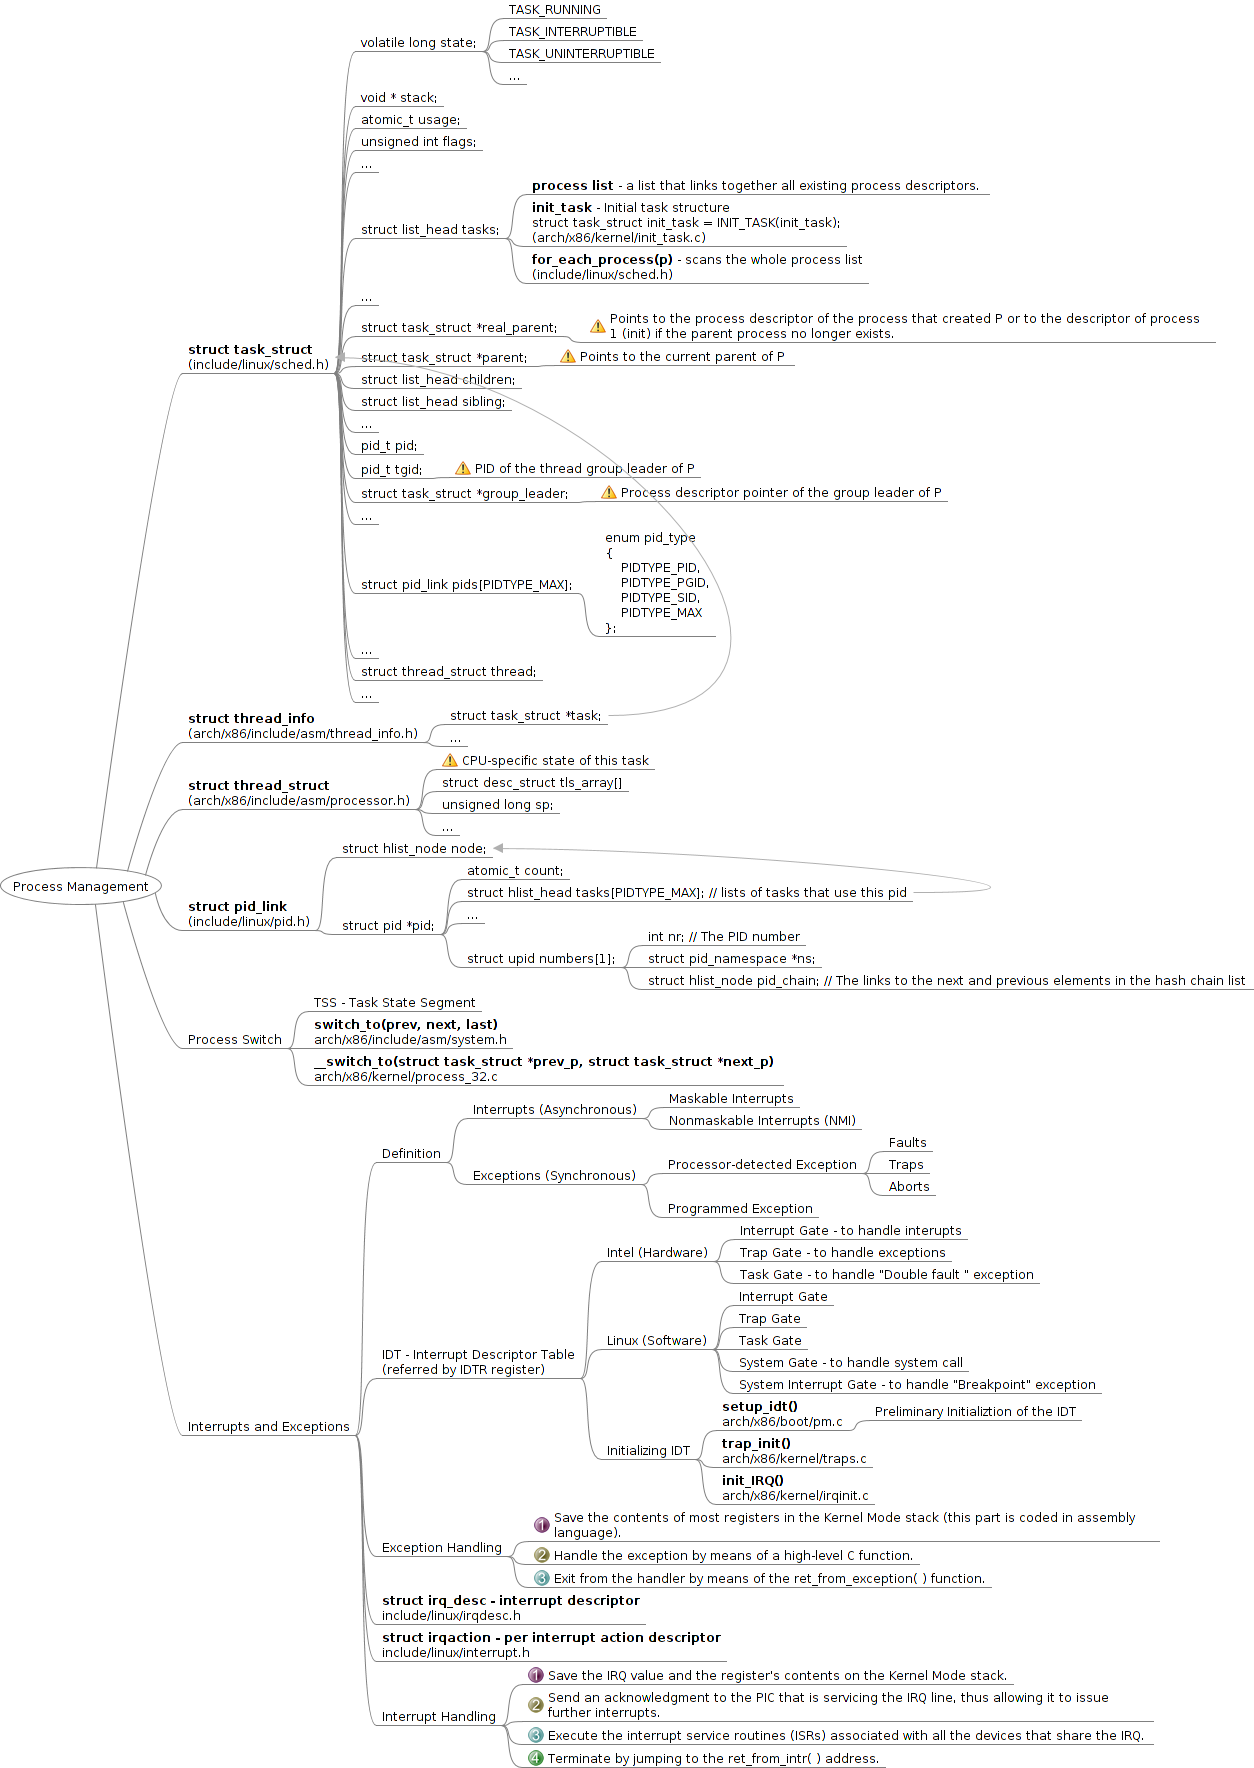
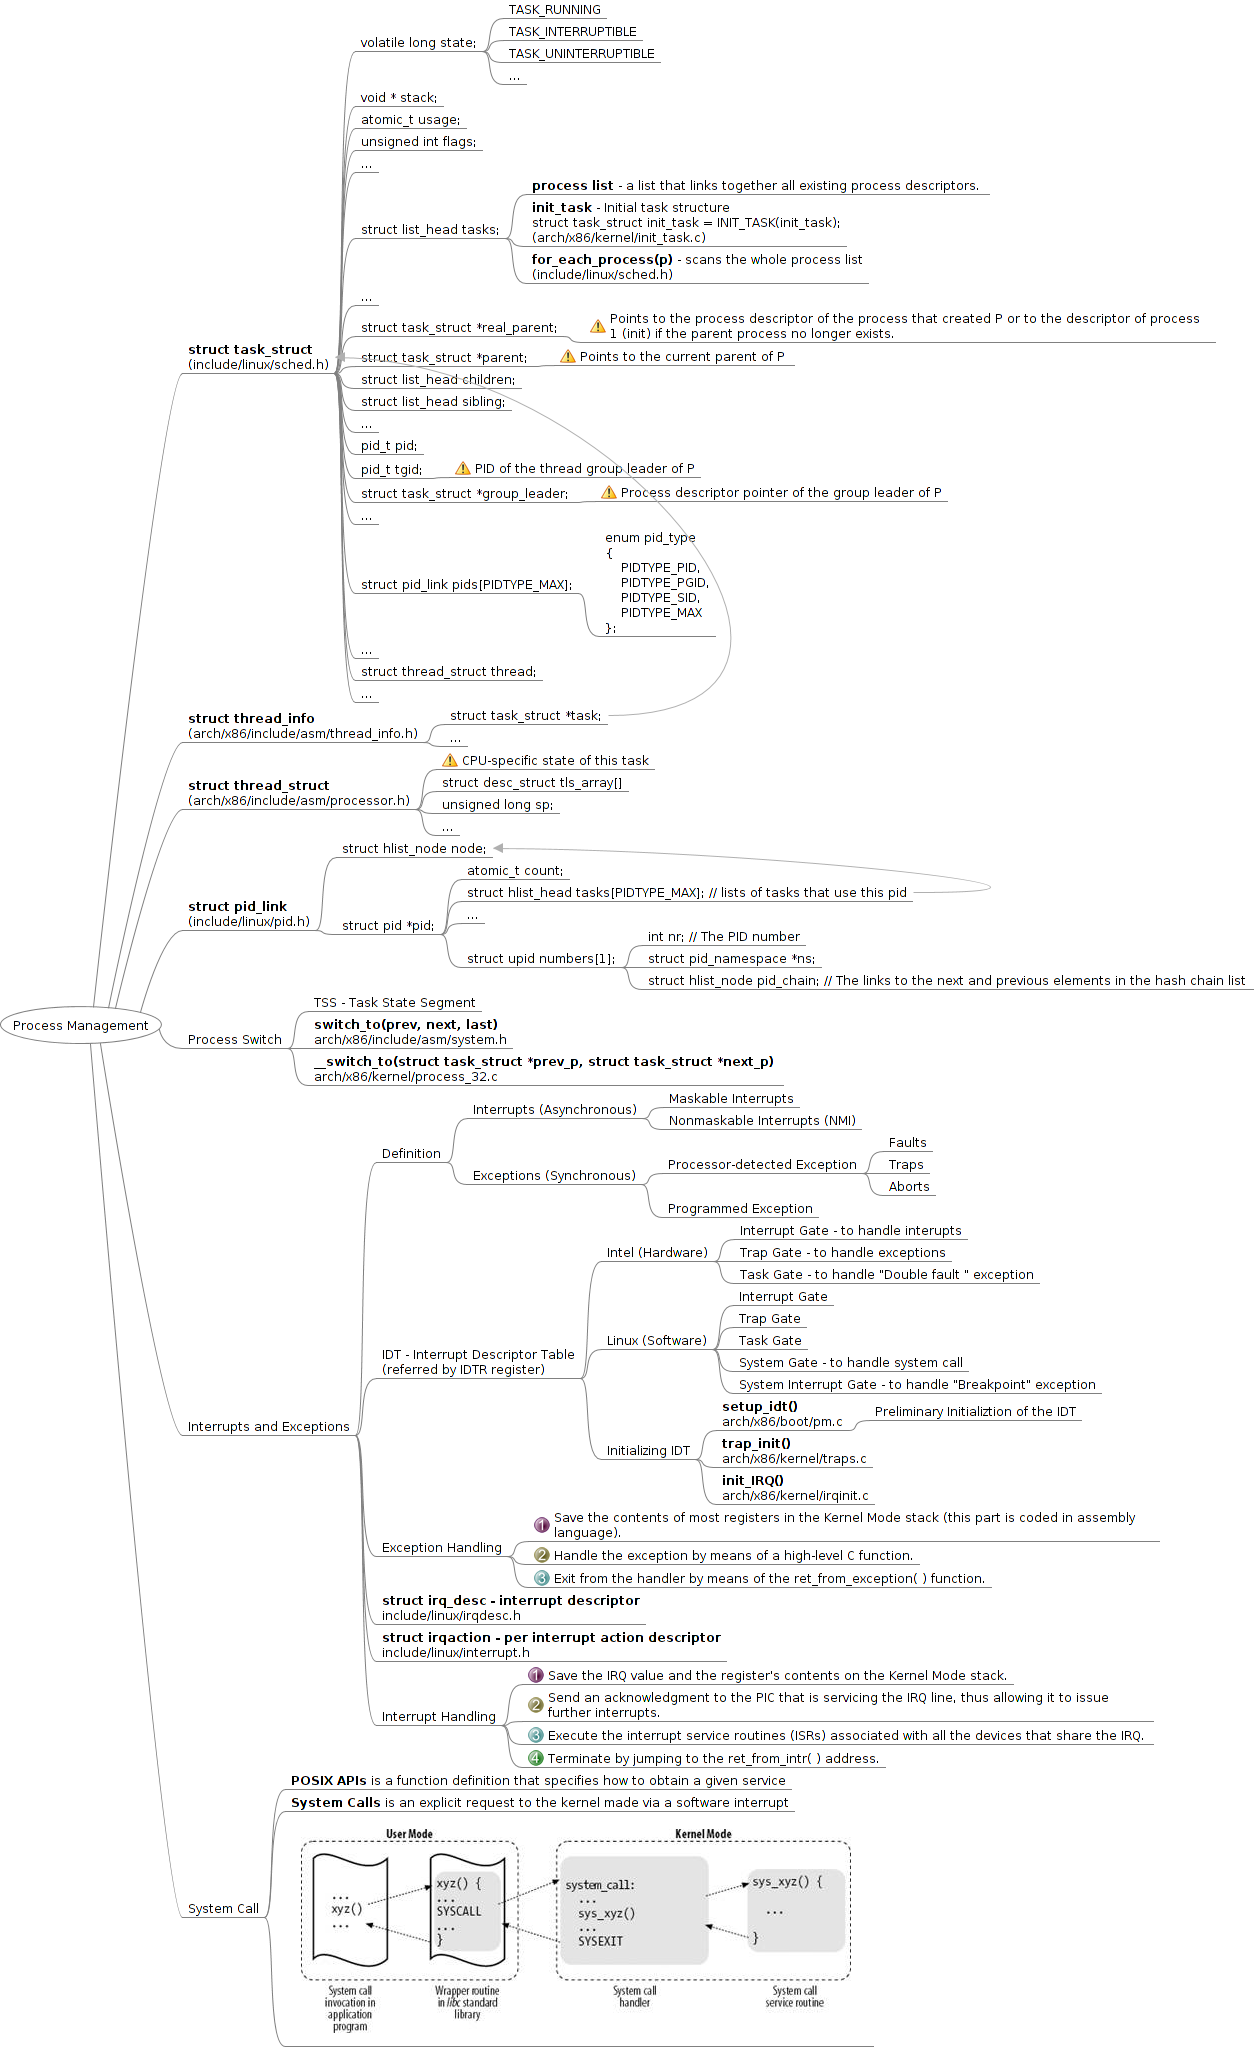
update process management

Changed region(s): [[0.0, 0.0, 0.9641, 1.0], [0.6531, 0.2178, 0.7153, 0.2489], [0.7464, 0.4666, 0.7775, 0.4977]]

diff --git a/Linux/process_management.mm b/Linux/process_management.mm
@@ -393,5 +393,45 @@
 </node>
 </node>
 </node>
+<node CREATED="1358477579981" ID="ID_188150470" MODIFIED="1358478261732" POSITION="right" TEXT="System Call">
+<node CREATED="1358477753900" ID="ID_225623548" MODIFIED="1358478064889">
+<richcontent TYPE="NODE"><html>
+  <head>
+    
+  </head>
+  <body>
+    <p>
+      <b>POSIX APIs</b>&#160;is a function definition that specifies how to obtain a given service
+    </p>
+  </body>
+</html>
+</richcontent>
+<font NAME="SansSerif" SIZE="12"/>
+</node>
+<node CREATED="1358477815733" ID="ID_538922577" MODIFIED="1358478074124">
+<richcontent TYPE="NODE"><html>
+  <head>
+    
+  </head>
+  <body>
+    <p>
+      <b>System Calls</b>&#160;is an explicit request to the kernel made via a software interrupt
+    </p>
+  </body>
+</html>
+</richcontent>
+</node>
+<node CREATED="1358477980740" ID="ID_94575330" MODIFIED="1358478009557">
+<richcontent TYPE="NODE"><html>
+  <head>
+    
+  </head>
+  <body>
+    <img src="kernel/invoking_system_call.png" />
+  </body>
+</html>
+</richcontent>
+</node>
+</node>
 </node>
 </map>
